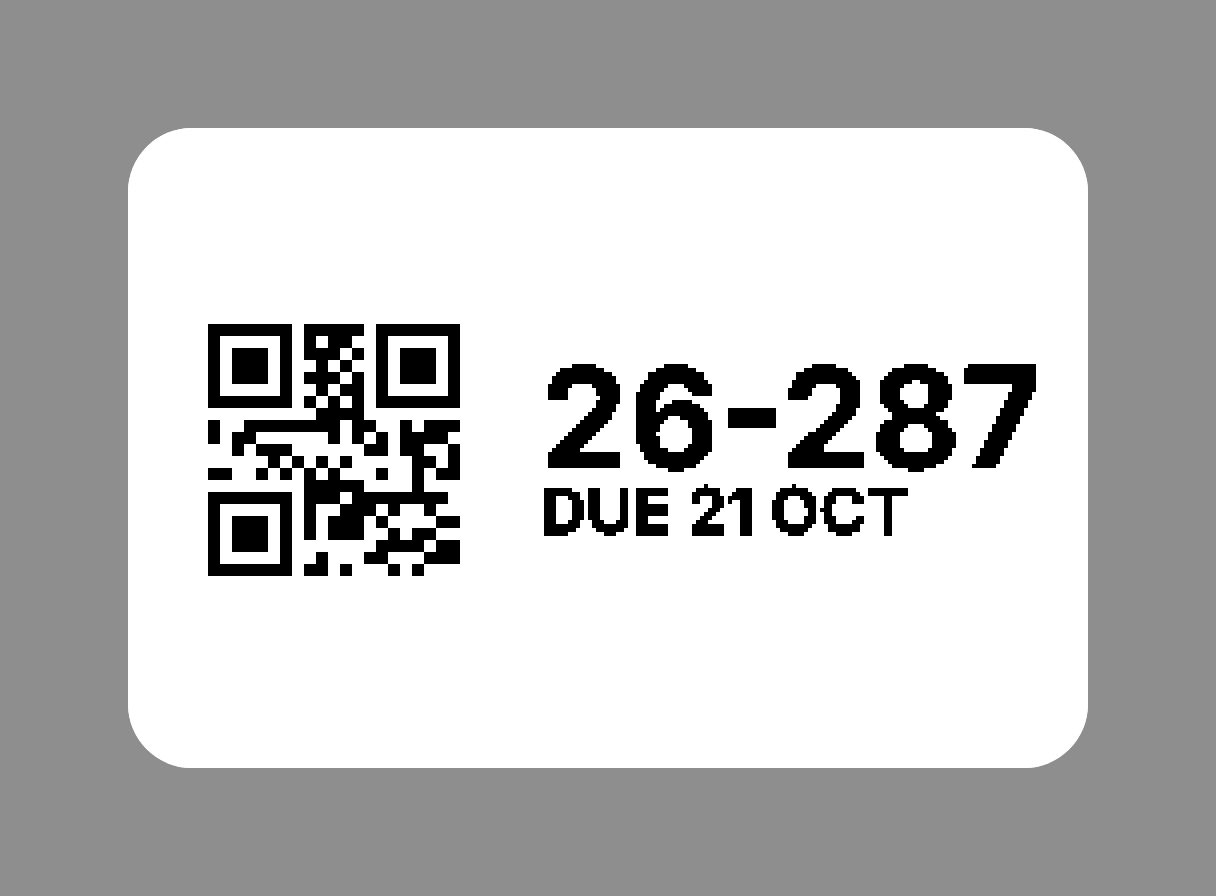
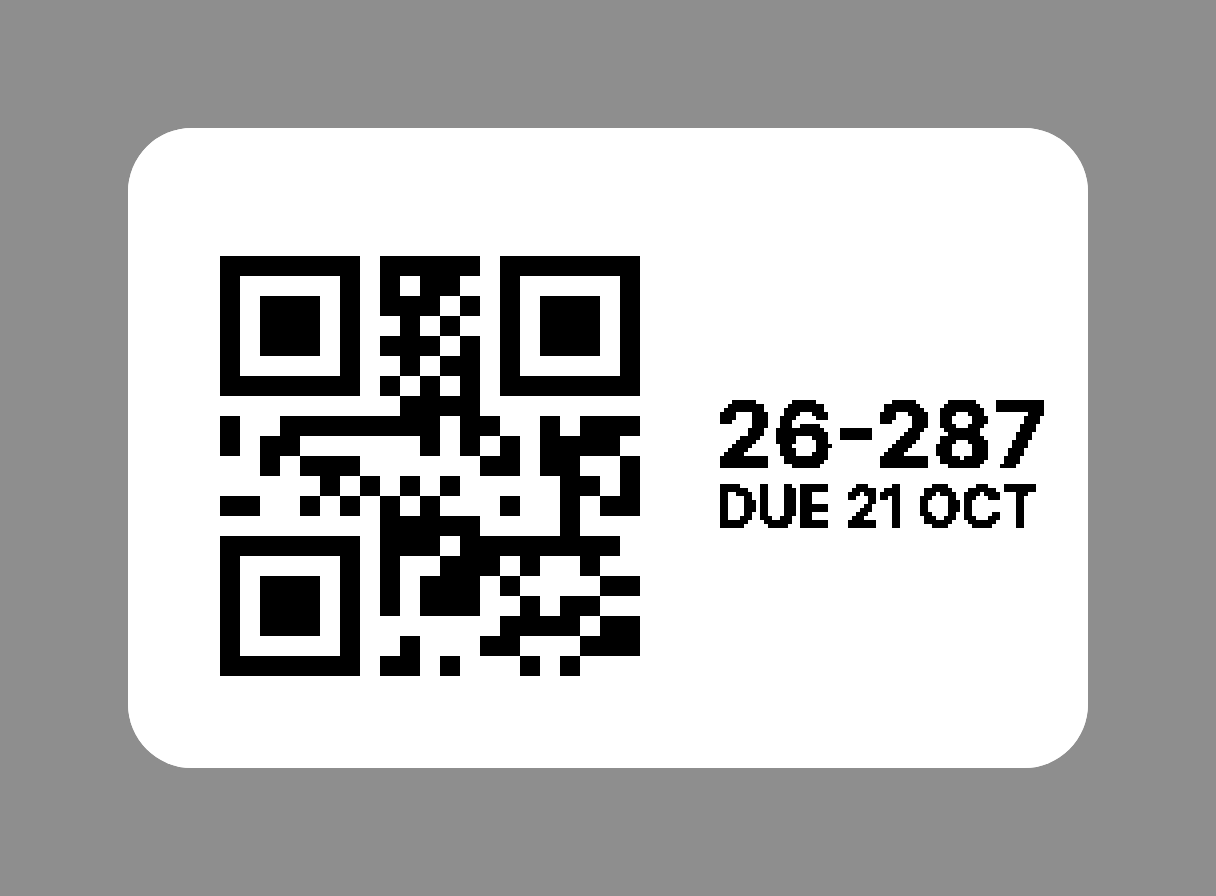
Move the B31 default 2 mm left and 0.5 mm down.
A calibration print centred on the 600 px head sat about 2 mm right of the T30*20 sticker and 0.5 mm high. The image stays the full head width, because a label-width bitmap would start at column 0. The saved per-printer offset is still added on top of that measured centre.

Changed region(s): [[0.1562, 0.2812, 0.875, 0.7812]]

diff --git a/sim/print-sim.js b/sim/print-sim.js
@@ -53,7 +53,7 @@ catch (e) { draw = false; console.log('skip label bitmaps: ' + (e && e.message |
 const card = { kind: 'jo_card', jo: '26-287', due: '2026-10-21' };
 const tag = { kind: 'jewelry_tag', jo: '26-287', karat: '18k', metal: 'gold', stone: 'diamond', size: '6', weight: '4.2' };
 if (draw) {
-[['B31', 600, 168], ['B1', 384, 72]].forEach(([model, head, ox]) => {
+[['B31', 600, 164], ['B1', 384, 72]].forEach(([model, head, ox]) => {
   const a = L.render(Object.assign({ model, client: 'Elena Tan' }, card));
   const b = L.render(Object.assign({ model }, card));
   const c = L.render(Object.assign({ model, client: 'Maria Santos' }, card));
@@ -107,6 +107,10 @@ function landscape(img) {
 eq(clearMargin(long) && clearMargin(wide), 'spec ink stays about 1 mm inside the 30 mm edges');
 const cal = L.render({ kind: 'cal_tag', model: 'B31' });
 eq(cal.width === 600 && cal.height === 560 && cal.lines.length === 0 && cal.qr === '', 'calibration has no JO text and no name');
+function darkAt(img, x, y) { return img.data[(y * img.width + x) * 4] === 0; }
+eq(cal.offsetX === 164 && !darkAt(cal, cal.offsetX + 4, 4) && darkAt(cal, cal.offsetX + 4, 8), 'the B31 calibration border is 2 mm left of the head centre and 0.5 mm down');
+const calB1 = L.render({ kind: 'cal_jo', model: 'B1' });
+eq(calB1.offsetX === 72 && darkAt(calB1, calB1.offsetX + 4, 4), 'B1 calibration stays centred on its head');
 
 function crc(buf) {
   let c = ~0;
@@ -146,7 +150,7 @@ eq(fs.existsSync(path.join(outDir, 'b31-jo-card.png')), 'PNG renders were writte
 const base = L.render(Object.assign({ model: 'B31' }, card));
 const moved = L.render(Object.assign({ model: 'B31', shiftX: L.px(0.5), shiftY: L.px(-1) }, card));
 eq(moved.offsetX === base.offsetX + L.px(0.5) && moved.qrBox.y === base.qrBox.y - L.px(1), 'a saved offset moves the JO card on the head');
-eq(L.printPx('B31', 600) === L.px(72) && L.printPx('B1', 384) === 384, 'B31 centres on its 72 mm print width and B1 centres on its 384 px head');
+eq(base.offsetX === Math.round((600 - 240) / 2) + L.px(-2) && L.placeBias('B31').y === L.px(0.5) && L.placeBias('B1').x === 0, 'a B31 label sits 2 mm left of the 600 px head centre and 0.5 mm down');
 const cardView = L.preview(base, { scale: 4, smooth: true });
 const tagView = L.preview(L.render(Object.assign({ model: 'B1' }, tag)), { scale: 4, smooth: true });
 const pad = L.px(4) * 4, rad = L.px(2) * 4;
@@ -243,8 +247,8 @@ eq(/printQueue:\s*1/.test(app) && !/printQueue/.test(cached), 'printQueue is a c
 eq(!/printMark\s*:\s*1/.test(app) && !/printEnqueue\s*:\s*1/.test(app) && !/printReprint\s*:\s*1/.test(app), 'print writes are not client reads');
 eq(fast.includes('priceJobCost: 1, printQueue: 1') && !fast.includes('dashboard: 1, printQueue'), 'Fast READS gains printQueue and FAST.CACHE does not');
 eq(dash.includes('listUsers: 1, printQueue: 1') && !dash.includes("action !== 'printQueue'"), 'DashCache READS gains printQueue and the dashboard spec does not');
-eq(index.includes('print.js?v=6') && index.includes('print-label.js?v=5') && index.includes('nav.js?v=19') && index.includes('app.js?v=30') && index.includes('settings.js?v=19') && index.includes('print.css?v=5') && index.includes('app.css?v=38') && index.includes('settings.css?v=10'), 'print assets are cache-busted');
-eq(read('nav.js').includes('print-label.js?v=5') && read('nav.js').includes('print.js?v=6') && read('nav.js').includes('menuHtml'), 'the scanner injects the current label renderer');
+eq(index.includes('print.js?v=7') && index.includes('print-label.js?v=6') && index.includes('nav.js?v=20') && index.includes('app.js?v=30') && index.includes('settings.js?v=19') && index.includes('print.css?v=5') && index.includes('app.css?v=38') && index.includes('settings.css?v=10'), 'print assets are cache-busted');
+eq(read('nav.js').includes('print-label.js?v=6') && read('nav.js').includes('print.js?v=7') && read('nav.js').includes('menuHtml'), 'the scanner injects the current label renderer');
 eq(read('print.js').includes('offsetMm') && read('staff/print-test.html').includes('prOff'), 'offsets are saved per model and shown on the print test page');
 eq(read('staff/print-test.html').includes('OYPLabel.preview') && read('print.js').includes('oyp-qprev'), 'print test and the queue preview the sticker, not the printhead');
 const testPage = read('staff/print-test.html'), testCss = read('print.css');

diff --git a/print-label.js b/print-label.js
@@ -4,9 +4,10 @@
    The client name is never read. JO card: 30×20 (240×160), QR on the left, tall.
    Jewelry tag: the same landscape reading on the 30×25 head (240×200), then a
    45 mm blank tail. B1 and B31 print direction is "top", so x is across the label.
-   The printer draws columns 0..width-1 and does not centre a narrow bitmap.
-   B31's manual print width is 72 mm, so a 30 mm label is centred on 575 px,
-   not on the 600 px head buffer. B1's verified head is 48 mm / 384 px. */
+   The printer draws columns 0..width-1 and does not centre a narrow bitmap,
+   so the image stays the full head. A 30 mm label centred on the B31's 600 px
+   head printed about 2 mm too far right and 0.5 mm too high on a T30*20 roll.
+   That measured correction is the B31 default. B1's head is 48 mm / 384 px. */
 (function (root) {
 'use strict';
 if (root.OYPLabel) return;
@@ -71,25 +72,25 @@ function presetOf(kind) {
   if (kind === 'jewelry_tag' || kind === 'cal_tag') return PRESETS[1];
   return PRESETS[0];
 }
-/* Usable print width. A narrower bitmap is not centred by the printer, so we pad
-   out to the head and place the label ourselves. B31 reports 600 px (75 mm) but
-   its manual print width is 72 mm, and that zone starts at column 0: centring a
-   T30 on 600 px printed about 1.5 mm too far right. B1's 384 px head is its print width. */
-function printPx(model, head) {
-  var known = { B31: 72, B3: 72, B1: 48 };
-  var mm = known[String(model || '').toUpperCase()];
-  if (!mm) return head;
-  var n = px(mm);
-  return n > 0 && n < head ? n : head;
+/* Where a label sits on the head. The printer does not centre, and a label-width
+   image would start at column 0, so the bitmap stays the full head.
+   A calibration print centred on the B31's 600 px head (offset 180) put the
+   border about 2 mm right of the T30*20 sticker and about 0.5 mm high.
+   px(-2) is -16 and px(0.5) is 4. A saved offset is added on top of this.
+   B1 was not in that print; its 384 px head stays centred. */
+function placeBias(model) {
+  if (String(model || '').toUpperCase() === 'B31') return { x: px(-2), y: px(0.5) };
+  return { x: 0, y: 0 };
 }
 function canvasFor(kind, head, model) {
   var p = presetOf(kind);
   var labelW = px(p.wMm), labelH = px(p.hMm), tail = px(p.tailMm);
-  var usable = printPx(model, head);
+  var bias = placeBias(model);
   return {
     head: head, labelW: labelW, labelH: labelH, tail: tail,
-    offsetX: Math.round((usable - labelW) / 2),
-    width: head, height: labelH + tail, preset: p.id, printPx: usable
+    offsetX: Math.round((head - labelW) / 2) + bias.x,
+    biasY: bias.y,
+    width: head, height: labelH + tail, preset: p.id
   };
 }
 /* Largest QR that fits maxPx. Quiet zone 4 when it fits, otherwise 3, module at least 3. */
@@ -273,7 +274,7 @@ function render(opts) {
   var head = headOf(opts);
   var box = canvasFor(kind, head, opts.model);
   var img = new Img(box.width, box.height);
-  var shiftX = opts.shiftX | 0, shiftY = opts.shiftY | 0;
+  var shiftX = opts.shiftX | 0, shiftY = (opts.shiftY | 0) + (box.biasY || 0);
   box.offsetX += shiftX;
   var rawSet = img.set.bind(img);
   img.set = function (x, y) { rawSet(x, y + shiftY); };
@@ -506,7 +507,7 @@ function preview(rendered, opts) {
 
 root.OYPLabel = {
   render: render, toCanvas: toCanvas, preview: preview, px: px, joCode: joCode, specLines: specLines, smallLine: smallLine,
-  ready: ready, PRESETS: PRESETS, HEADS: HEADS, SPEC_PX: SPEC_PX, canvasFor: canvasFor, printPx: printPx
+  ready: ready, PRESETS: PRESETS, HEADS: HEADS, SPEC_PX: SPEC_PX, canvasFor: canvasFor, placeBias: placeBias
 };
 if (typeof module !== 'undefined' && module.exports) module.exports = root.OYPLabel;
 })(typeof window !== 'undefined' ? window : globalThis);

diff --git a/print.js b/print.js
@@ -517,7 +517,7 @@ function mountSettings(el) {
     + '<div class="setrow"><div class="setl"><span class="lab">Darkness</span><span class="muted">1 is light, 5 is dark. 3 is the usual.</span></div><div class="setv">' + darkSeg(cfg.darkness) + '</div></div>'
     + '<div class="setrow"><div class="setl"><span class="lab">Print mode</span><span class="muted">Leave on Auto. If a B31 feeds but prints nothing, try D110M_V4, then B1.</span></div><div class="setv"><select id="prTask" aria-label="Print mode">' + [['auto', 'Auto'], ['D110M_V4', 'D110M_V4'], ['B1', 'B1']].map(function (o) { return '<option value="' + o[0] + '"' + ((cfg.task || 'auto') === o[0] ? ' selected' : '') + '>' + o[1] + '</option>'; }).join('') + '</select></div></div>'
     + '<div class="setrow"><div class="setl"><span class="lab">This printer prints</span><span class="muted">A B31 starts on JO cards. A B1 starts on jewelry tags. Either one can print both.</span></div><div class="setv"><div class="setdays">' + kindChip('prJo', k.jo_card, 'JO card') + kindChip('prTag', k.jewelry_tag, 'Jewelry tag') + '</div></div></div>'
-    + '<div class="setrow"><div class="setl"><span class="lab">B31 offset</span><span class="muted">Positive moves the print right, or down the feed.</span></div>' + mmPair('prX31', b31.x, 'B31 horizontal offset', 'prY31', b31.y, 'B31 vertical offset') + '</div>'
+    + '<div class="setrow"><div class="setl"><span class="lab">B31 offset</span><span class="muted">Zero is the centre measured on a T30×20 roll. Positive moves the print right, or down the feed.</span></div>' + mmPair('prX31', b31.x, 'B31 horizontal offset', 'prY31', b31.y, 'B31 vertical offset') + '</div>'
     + '<div class="setrow"><div class="setl"><span class="lab">B1 offset</span><span class="muted">Same steps, saved separately for the B1.</span></div>' + mmPair('prX1', b1.x, 'B1 horizontal offset', 'prY1', b1.y, 'B1 vertical offset') + '</div>'
     + '</div><p class="muted">Stickers print the JO number, not the client name. The queue still shows the name first, for example Elena Tan · 26-287.</p></div>';
   function persist() {

diff --git a/nav.js b/nav.js
@@ -80,7 +80,7 @@ if (typeof document !== 'undefined' && document.createElement) {
   src = cs && (cs.src || '');
   var base = src ? src.replace(/[^/]*$/, '') : '';
   if (base && !document.querySelector('script[src*="print.js"]')) {
-    ['vendor/qrcode.js?v=1', 'vendor/niimbluelib-0.47.1.js?v=1', 'print-label.js?v=5', 'print.js?v=6'].forEach(function (rel) {
+    ['vendor/qrcode.js?v=1', 'vendor/niimbluelib-0.47.1.js?v=1', 'print-label.js?v=6', 'print.js?v=7'].forEach(function (rel) {
       var ps = document.createElement('script');
       ps.src = base + rel;
       ps.async = false;

diff --git a/staff/print-test.html b/staff/print-test.html
@@ -31,9 +31,9 @@
 <div id="toast" class="toast hidden"></div>
 <script src="../vendor/qrcode.js?v=1"></script>
 <script src="../vendor/niimbluelib-0.47.1.js?v=1"></script>
-<script src="../print-label.js?v=5"></script>
-<script src="../print.js?v=6"></script>
-<script src="../nav.js?v=19"></script>
+<script src="../print-label.js?v=6"></script>
+<script src="../print.js?v=7"></script>
+<script src="../nav.js?v=20"></script>
 <script>
 (function () {
   var menu = document.getElementById('menu');

diff --git a/staff/index.html b/staff/index.html
@@ -65,8 +65,8 @@
 <script src="../production.js?v=8"></script>
 <script src="../vendor/qrcode.js?v=1"></script>
 <script src="../vendor/niimbluelib-0.47.1.js?v=1"></script>
-<script src="../print-label.js?v=5"></script>
-<script src="../print.js?v=6"></script>
-<script src="../nav.js?v=19"></script>
+<script src="../print-label.js?v=6"></script>
+<script src="../print.js?v=7"></script>
+<script src="../nav.js?v=20"></script>
 <script src="../app.js?v=30"></script>
 </body></html>
